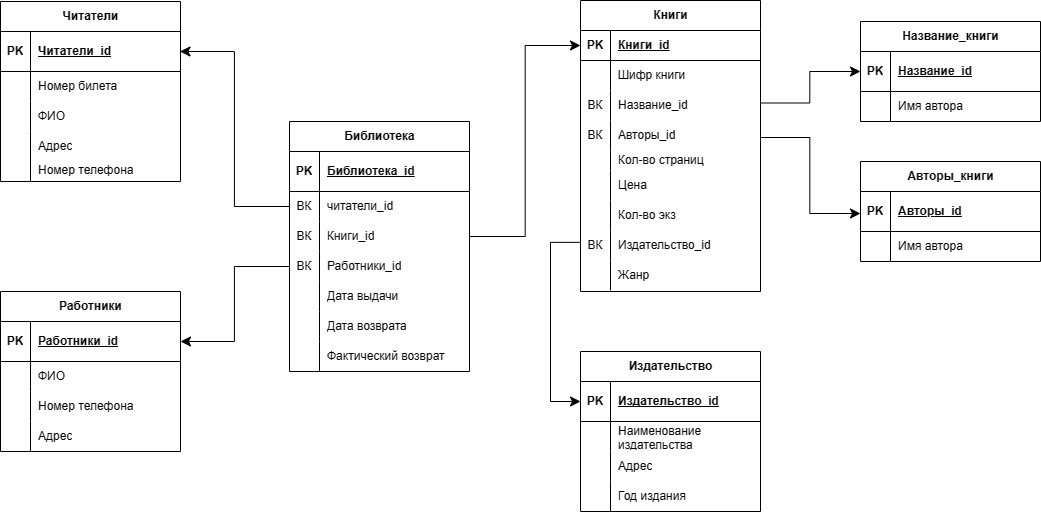
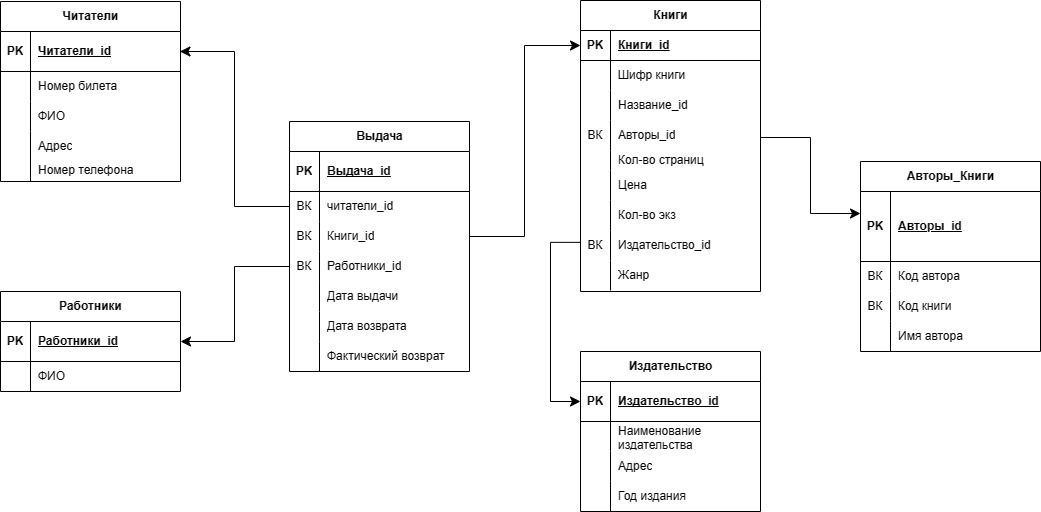
My three commit from local PC

diff --git a/README.md b/README.md
@@ -1,6 +1,6 @@
 Применил связи между сущностями к данным таблицам такие как:
-1) связь между таблицами Читатели, Библиотека, Книги и Работники один ко многим. То есть один блог - много статей
+1) связь между таблицами Читатели, Выдача, Книги и Работники один ко многим. То есть один блог - много статей
 2) в таблице Издательство могут быть много наименований издательства и года издательства поэтому связь между таблицами Книги и Издательство многие ко многим
-3) в таблице книги может быть много авторов и названий книг связь между таблицами Книги и Название_книги и Авторы_книги один ко многим. 
+3) в таблице книги может быть много авторов и названий книг связь между таблицами Книги и Авторы_Книги один ко многим. 
 
 На схеме изображены таблицы и где ПК-Первичный ключ, ВК-Вторичный ключ.
